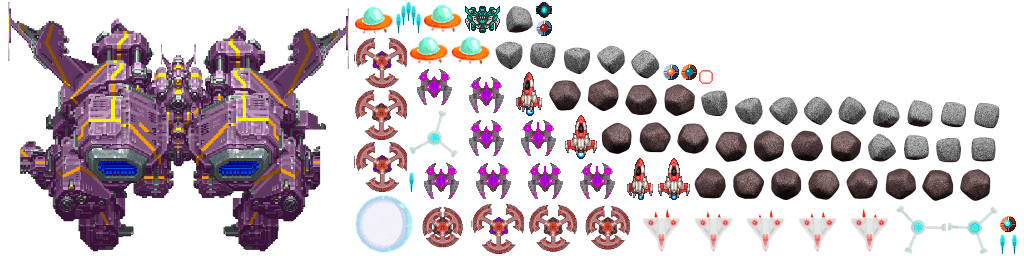
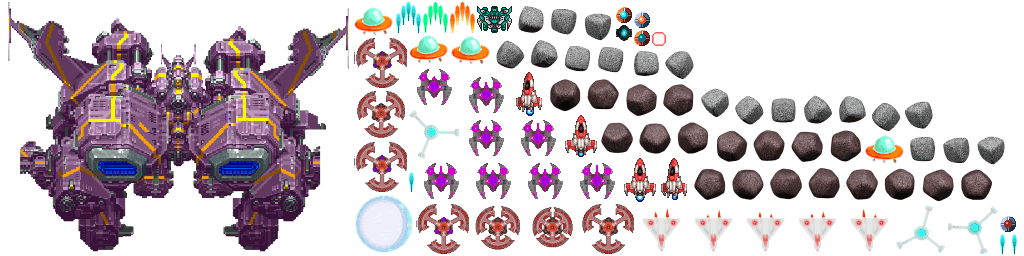
fix bug and improve powerup

diff --git a/core/src/com/benk97/entities/EntityFactory.java b/core/src/com/benk97/entities/EntityFactory.java
@@ -1,4 +1,4 @@
-    package com.benk97.entities;
+package com.benk97.entities;
 
 import aurelienribon.tweenengine.*;
 import aurelienribon.tweenengine.equations.Linear;
@@ -32,8 +32,7 @@ import static com.benk97.SpaceKillerGameConstants.*;
 import static com.benk97.assets.Assets.*;
 import static com.benk97.components.Mappers.position;
 import static com.benk97.components.Mappers.sprite;
-import static com.benk97.components.PlayerComponent.PowerLevel.DOUBLE;
-import static com.benk97.components.PlayerComponent.PowerLevel.NORMAL;
+import static com.benk97.screens.LevelScreen.Level.Level1;
 import static com.benk97.screens.LevelScreen.Level.Level2;
 import static com.benk97.tweens.PositionComponentAccessor.POSITION_XY;
 import static com.benk97.tweens.PositionComponentAccessor.POSITION_Y;
@@ -113,8 +112,7 @@ public class EntityFactory implements Disposable {
         bullet.add(velocityComponent);
         SpriteComponent spriteComponent = engine.createComponent(SpriteComponent.class);
         PlayerComponent playerComponent = Mappers.player.get(player);
-        spriteComponent.sprite = new Sprite(playerComponent.powerLevel.equals(NORMAL) ? atlasMask.findRegion("bullet")
-                : playerComponent.powerLevel.equals(DOUBLE) ? atlasMask.findRegion("bullet2") : atlasMask.findRegion("bullet3"));
+        spriteComponent.sprite = new Sprite(atlasMask.findRegion(playerComponent.powerLevel.regionName));
         bullet.add(spriteComponent);
         bullet.add(engine.createComponent(RemovableComponent.class));
         engine.addEntity(bullet);
@@ -216,25 +214,25 @@ public class EntityFactory implements Disposable {
     }
 
     public final static int ENEMY_FIRE_CIRCLE = 1;
-    public final static int ENEMY_FIRE_CONE = 2;
+    public final static int ENEMY_FIRE_LASER = 2;
 
     public Entity createEnemyFire(Entity enemy, Entity player) {
         switch (Mappers.enemy.get(enemy).attackType) {
             case ENEMY_FIRE_CIRCLE:
                 return createEnemyFireCircle(enemy, player);
-            case ENEMY_FIRE_CONE:
-                return createEnemyFireCone(enemy);
+            case ENEMY_FIRE_LASER:
+                return createEnemyFireLaser(enemy);
         }
         return null;
     }
 
-    private Entity createEnemyFireCone(Entity enemy) {
+    private Entity createEnemyFireLaser(Entity enemy) {
         PositionComponent position = Mappers.position.get(enemy);
         Sprite sprite = Mappers.sprite.get(enemy).sprite;
-        return createEnemyFireCone(enemy, position.x + sprite.getWidth() / 2f, position.y, Mappers.enemy.get(enemy).bulletVelocity);
+        return createEnemyFireLaser(position.x + sprite.getWidth() / 2f, position.y, Mappers.enemy.get(enemy).bulletVelocity);
     }
 
-    private Entity createEnemyFireCone(Entity enemy, float posX, float posY, float velocity) {
+    private Entity createEnemyFireLaser(float posX, float posY, float velocity) {
         assets.playSound(SOUND_FIRE_ENEMY);
         Entity bullet = engine.createEntity();
         bullet.add(engine.createComponent(EnemyBulletComponent.class));
@@ -272,9 +270,14 @@ public class EntityFactory implements Disposable {
         engine.addEntity(bullet);
         PositionComponent playerPosition = position.get(player);
         PositionComponent enemyPosition = position.get(enemy);
-        positionComponent.x = enemyPosition.x + Mappers.sprite.get(enemy).sprite.getWidth() / 2f - spriteComponent.sprite.getWidth() / 2f;
-        positionComponent.y = enemyPosition.y + sprite.get(enemy).sprite.getHeight();
-
+        EnemyComponent enemyComponent = Mappers.enemy.get(enemy);
+        if (enemyComponent.isBoss) {
+            positionComponent.x = enemyPosition.x + Mappers.sprite.get(enemy).sprite.getWidth() / 2f - spriteComponent.sprite.getWidth() / 2f;
+            positionComponent.y = enemyPosition.y + sprite.get(enemy).sprite.getHeight() * 3f / 4f;
+        } else {
+            positionComponent.x = enemyPosition.x + Mappers.sprite.get(enemy).sprite.getWidth() / 2f - spriteComponent.sprite.getWidth() / 2f;
+            positionComponent.y = enemyPosition.y + sprite.get(enemy).sprite.getHeight();
+        }
         Vector2 directionBullet = new Vector2(playerPosition.x - positionComponent.x, playerPosition.y - positionComponent.y);
         directionBullet.nor();
         directionBullet.rotate(-10 + random.nextFloat() * 20f);
@@ -295,16 +298,22 @@ public class EntityFactory implements Disposable {
                     }
                 }, 0f + 0.2f * i);
             }
-        } else {
+        } else if (type == 1 || Mappers.player.get(player).level.equals(Level1)
+                || Mappers.position.get(boss).x < 0 || Mappers.position.get(boss).x > SCREEN_WIDTH * 3f / 4f) {
             createBossFireCircle(boss);
+        } else {
+            PositionComponent position = Mappers.position.get(boss);
+            BossComponent bossComponent = Mappers.boss.get(boss);
+            createEnemyFireLaser(position.x + 160f, position.y + 170f, bossComponent.velocityFire2);
+            createEnemyFireLaser(position.x + 195f, position.y + 170f, bossComponent.velocityFire2);
         }
     }
 
     public void createBossFire2(Entity boss) {
         PositionComponent position = Mappers.position.get(boss);
         BossComponent bossComponent = Mappers.boss.get(boss);
-        createEnemyFireCone(boss, position.x + 12f, position.y + 186f, bossComponent.velocityFire2);
-        createEnemyFireCone(boss, position.x + 342f, position.y + 186f, bossComponent.velocityFire2);
+        createEnemyFireLaser(position.x + 12f, position.y + 186f, bossComponent.velocityFire2);
+        createEnemyFireLaser(position.x + 342f, position.y + 186f, bossComponent.velocityFire2);
     }
 
     public Array<Entity> createBossFireCircle(Entity boss) {
@@ -329,7 +338,7 @@ public class EntityFactory implements Disposable {
 
             PositionComponent enemyPosition = position.get(boss);
             positionComponent.x = enemyPosition.x + Mappers.sprite.get(boss).sprite.getWidth() / 2f - spriteComponent.sprite.getWidth() / 2f;
-            positionComponent.y = enemyPosition.y;
+            positionComponent.y = enemyPosition.y + Mappers.sprite.get(boss).sprite.getHeight() / 4f;
 
             bullets.add(bullet);
             engine.addEntity(bullet);
@@ -445,7 +454,7 @@ public class EntityFactory implements Disposable {
         return bombUp;
     }
 
-    public Entity createStaticEnemy(int type, Float velocity, float bulletVelocity, int rateShoot, int gaugelife, int points, boolean fromLeft) {
+    public Entity createLaserShip(int type, Float velocity, float bulletVelocity, int rateShoot, int gaugelife, int points, boolean fromLeft) {
         Entity enemy = engine.createEntity();
         engine.addEntity(enemy);
         PositionComponent positionComponent = engine.createComponent(PositionComponent.class);
@@ -471,7 +480,7 @@ public class EntityFactory implements Disposable {
         enemyComponent.bulletVelocity = bulletVelocity;
         enemyComponent.attackCapacity = Integer.MAX_VALUE;
         enemyComponent.probabilityAttack = rateShoot;
-        enemyComponent.attackType = ENEMY_FIRE_CONE;
+        enemyComponent.attackType = ENEMY_FIRE_LASER;
         enemyComponent.isLaserShip = true;
         enemy.add(enemyComponent);
         return enemy;
@@ -645,11 +654,11 @@ public class EntityFactory implements Disposable {
     }
 
 
-    public Entity createEntityPlayer() {
+    public Entity createEntityPlayer(Level level) {
         Entity player = engine.createEntity();
         PlayerComponent playerComponent = engine.createComponent(PlayerComponent.class);
         playerComponent.setHighScore(Settings.getHighscore());
-        if(game.playerData!=null){
+        if (game.playerData != null) {
             playerComponent.bombs = game.playerData.bombs;
             playerComponent.howManyLifesLosed = game.playerData.howManyLifesLosed;
             playerComponent.enemiesKilled = game.playerData.enemiesKilled;
@@ -660,6 +669,8 @@ public class EntityFactory implements Disposable {
             playerComponent.powerLevel = game.playerData.powerLevel;
             playerComponent.rewardAds = game.playerData.rewardAds;
             playerComponent.level = game.playerData.level;
+        } else {
+            playerComponent.level = level;
         }
         player.add(playerComponent);
         player.add(engine.createComponent(PositionComponent.class));

diff --git a/core/src/com/benk97/entities/SoloEnemyFactory.java b/core/src/com/benk97/entities/SoloEnemyFactory.java
@@ -58,7 +58,7 @@ public class SoloEnemyFactory {
     private Entity createSoloEnemyBezier(final float velocity, float bulletVelocity, int rateShoot, int gaugelife, int points, boolean comingFromLeft) {
         final boolean direction = comingFromLeft;
         final int directionFactor = direction ? 1 : -1;
-        Entity enemy = entityFactory.createStaticEnemy(getRandomStaticEnemy(), null, bulletVelocity, rateShoot, gaugelife, points, direction);
+        Entity enemy = entityFactory.createLaserShip(getRandomStaticEnemy(), null, bulletVelocity, rateShoot, gaugelife, points, direction);
         final PositionComponent position = Mappers.position.get(enemy);
         Sprite sprite = Mappers.sprite.get(enemy).sprite;
         final int k = 100;
@@ -95,7 +95,7 @@ public class SoloEnemyFactory {
     private Entity createSoloEnemyTrapeze(final float velocity, float bulletVelocity, int rateShoot, int gaugelife, int points, boolean comingFromLeft) {
         final boolean direction = comingFromLeft;
         final int directionFactor = direction ? 1 : -1;
-        Entity enemy = entityFactory.createStaticEnemy(getRandomStaticEnemy(), null, bulletVelocity, rateShoot, gaugelife, points, direction);
+        Entity enemy = entityFactory.createLaserShip(getRandomStaticEnemy(), null, bulletVelocity, rateShoot, gaugelife, points, direction);
         final PositionComponent position = Mappers.position.get(enemy);
         final Sprite sprite = Mappers.sprite.get(enemy).sprite;
         Tween.to(position, POSITION_X, sprite.getWidth() / velocity)
@@ -124,7 +124,7 @@ public class SoloEnemyFactory {
     private Entity createSoloEnemyLinearX(final float velocity, float bulletVelocity, int rateShoot, int gaugelife, int points, boolean comingFromLeft) {
         final boolean direction = comingFromLeft;
         final int directionFactor = direction ? 1 : -1;
-        Entity enemy = entityFactory.createStaticEnemy(getRandomStaticEnemy(), null, bulletVelocity, rateShoot, gaugelife, points, direction);
+        Entity enemy = entityFactory.createLaserShip(getRandomStaticEnemy(), null, bulletVelocity, rateShoot, gaugelife, points, direction);
         final PositionComponent position = Mappers.position.get(enemy);
         final Sprite sprite = Mappers.sprite.get(enemy).sprite;
         Tween.to(position, POSITION_X, SCREEN_WIDTH / velocity)
@@ -143,7 +143,7 @@ public class SoloEnemyFactory {
     }
 
     private Entity createSoloEnemyFollowingPlayerOnAxisX(float velocity, float bulletVelocity, int rateShoot, int gaugelife, int points, boolean comingFromLeft) {
-        return entityFactory.createStaticEnemy(getRandomStaticEnemy(), velocity, bulletVelocity, rateShoot, gaugelife, points, comingFromLeft);
+        return entityFactory.createLaserShip(getRandomStaticEnemy(), velocity, bulletVelocity, rateShoot, gaugelife, points, comingFromLeft);
     }
 
     public int getRandomStaticEnemy() {

diff --git a/core/src/com/benk97/components/PlayerComponent.java b/core/src/com/benk97/components/PlayerComponent.java
@@ -12,7 +12,13 @@ import static com.benk97.components.PlayerComponent.PowerLevel.*;
 public class PlayerComponent implements Component, Pool.Poolable {
 
     public enum PowerLevel {
-        NORMAL, DOUBLE, TRIPLE
+        NORMAL("bullet"), DOUBLE("bullet2"), TRIPLE("bullet3"), TRIPLE_FAST("bullet4"), TRIPLE_VERY_FAST("bullet5");
+
+        public String regionName;
+
+        PowerLevel(String regionName) {
+            this.regionName = regionName;
+        }
     }
 
     public long fireDelay = FIRE_DELAY;
@@ -28,7 +34,7 @@ public class PlayerComponent implements Component, Pool.Poolable {
     public LevelScreen.Level level = LevelScreen.Level.Level1;
     public float secondScript = -3;
 
-    public PlayerData copyPlayerData(){
+    public PlayerData copyPlayerData() {
         return new PlayerData(level, secondScript, rewardAds, fireDelay, enemiesKilled, laserShipKilled, howManyLifesLosed, score, highscore, lives, bombs, powerLevel);
     }
 
@@ -88,14 +94,21 @@ public class PlayerComponent implements Component, Pool.Poolable {
     }
 
     public void powerUp() {
-        if (powerLevel.equals(NORMAL)) {
-            powerLevel = DOUBLE;
-        } else if (powerLevel.equals(DOUBLE)) {
-            powerLevel = TRIPLE;
-        } else if (fireDelay == FIRE_DELAY) {
-            fireDelay = FIRE_DELAY_FAST;
-        } else if (fireDelay == FIRE_DELAY_FAST) {
-            fireDelay = FIRE_DELAY_VERY_FAST;
+        switch (powerLevel) {
+            case NORMAL:
+                powerLevel = DOUBLE;
+                break;
+            case DOUBLE:
+                powerLevel = TRIPLE;
+                break;
+            case TRIPLE:
+                fireDelay = FIRE_DELAY_FAST;
+                powerLevel = TRIPLE_FAST;
+                break;
+            case TRIPLE_FAST:
+                fireDelay = FIRE_DELAY_VERY_FAST;
+                powerLevel = TRIPLE_VERY_FAST;
+                break;
         }
     }
 

diff --git a/core/src/com/benk97/screens/LevelScreen.java b/core/src/com/benk97/screens/LevelScreen.java
@@ -94,7 +94,6 @@ public abstract class LevelScreen extends ScreenAdapter {
     public void continueWithExtraLife() {
         final PlayerComponent playerComponent = Mappers.player.get(player);
         player.remove(GameOverComponent.class);
-        resumeGame();
         ((LevelScreen) game.currentScreen).startLevel(playerComponent.secondScript);
         playerComponent.lives++;
         playerComponent.rewardAds--;
@@ -142,6 +141,7 @@ public abstract class LevelScreen extends ScreenAdapter {
     private Level level;
 
     public LevelScreen(Assets assets, SpaceKillerGame game, Level level) {
+        Timer.instance().start();
         this.level = level;
         this.game = game;
         this.fxLightEnabled = Settings.isLightFXEnabled();
@@ -176,7 +176,7 @@ public abstract class LevelScreen extends ScreenAdapter {
         }
         entityFactory = new EntityFactory(game, engine, assets, tweenManager, rayHandler, level);
         squadronFactory = new SquadronFactory(tweenManager, entityFactory, engine);
-        player = entityFactory.createEntityPlayer();
+        player = entityFactory.createEntityPlayer(level);
         Array<Entity> lives = entityFactory.createEntityPlayerLives(player);
         Array<Entity> bombs = entityFactory.createEntityPlayerBombs(player);
         createSystems(player, lives, bombs, batcher);

diff --git a/core/src/com/benk97/screens/Level2Screen.java b/core/src/com/benk97/screens/Level2Screen.java
@@ -76,7 +76,7 @@ public class Level2Screen extends LevelScreen {
         scriptItemsMediumRight = new LinkedList<ScriptItem>(randomMediumSpawnEnemiesComingFromRight(20));
         scriptItemsHardLeft = new LinkedList<ScriptItem>(randomHardSpawnEnemiesComingFromLeft(20));
         scriptItemsHardRight = new LinkedList<ScriptItem>(randomHardSpawnEnemiesComingFromRight(20));
-        boss = new ScriptItem(BOSS_LEVEL_2, BOSS_LEVEL2_MOVE, 200f, 1, false, true, 15000,
+        boss = new ScriptItem(BOSS_LEVEL_2, BOSS_LEVEL2_MOVE, 100f, 1, false, true, 15000,
                 ENEMY_BULLET_EASY_VELOCITY);
     }
 
@@ -191,7 +191,7 @@ public class Level2Screen extends LevelScreen {
             }
         } else if (second >= 255) {
             switch (second) {
-                case 225:
+                case 255:
                     assets.playSound(SOUND_BOSS_ALERT);
                     for (Entity background : backgrounds) {
                         Tween.to(Mappers.velocity.get(background), VELOCITY_Y, 4).ease(Quad.IN)

diff --git a/core/src/com/benk97/SpaceKillerGameConstants.java b/core/src/com/benk97/SpaceKillerGameConstants.java
@@ -2,7 +2,7 @@ package com.benk97;
 
 public class SpaceKillerGameConstants {
     // general settings
-    public final static String GAME_VERSION = "v0.8.10";
+    public final static String GAME_VERSION = "v0.8.11";
     public final static float SCREEN_WIDTH = 400;
     public final static float SCREEN_HEIGHT = 700;
     public final static boolean DEBUG = false;
